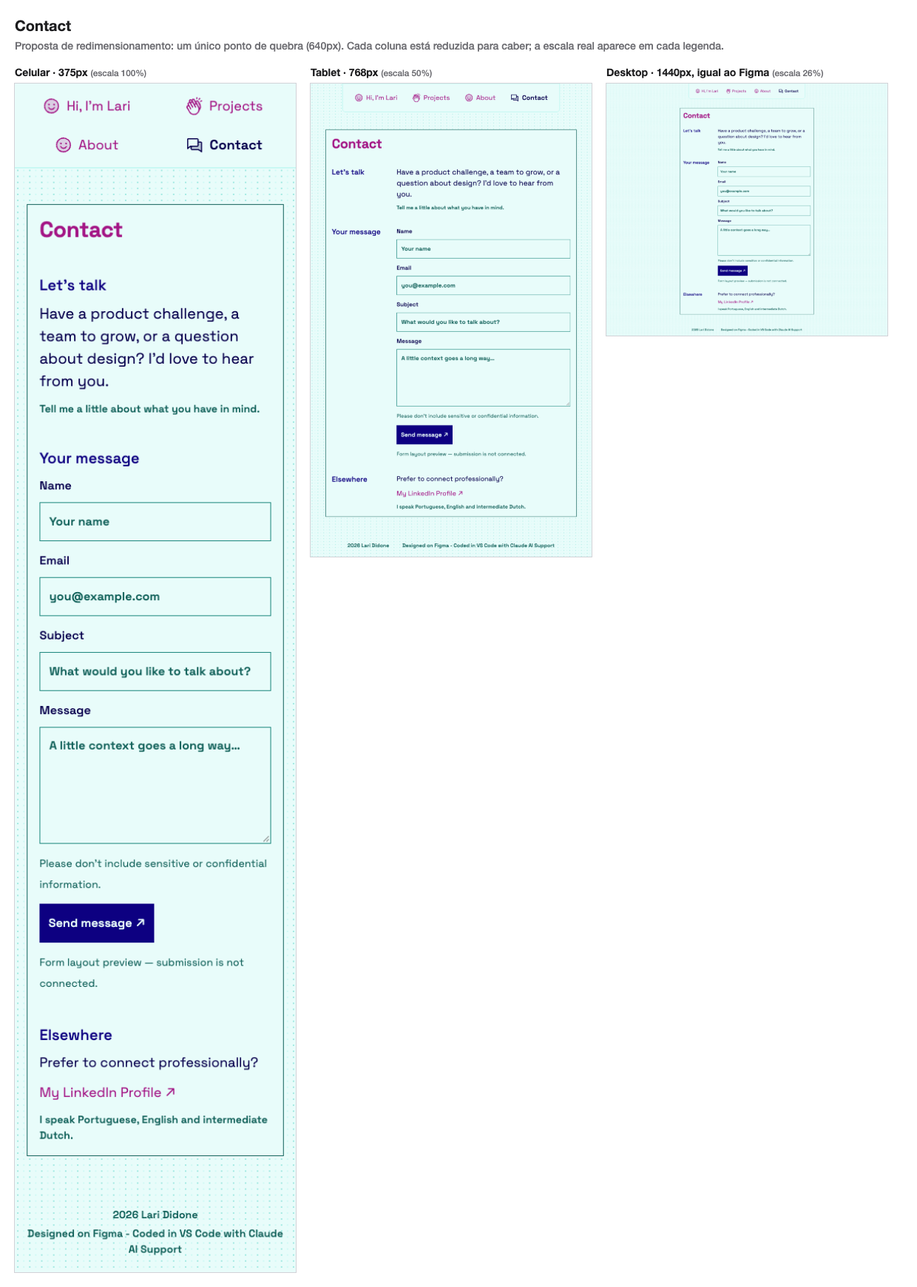
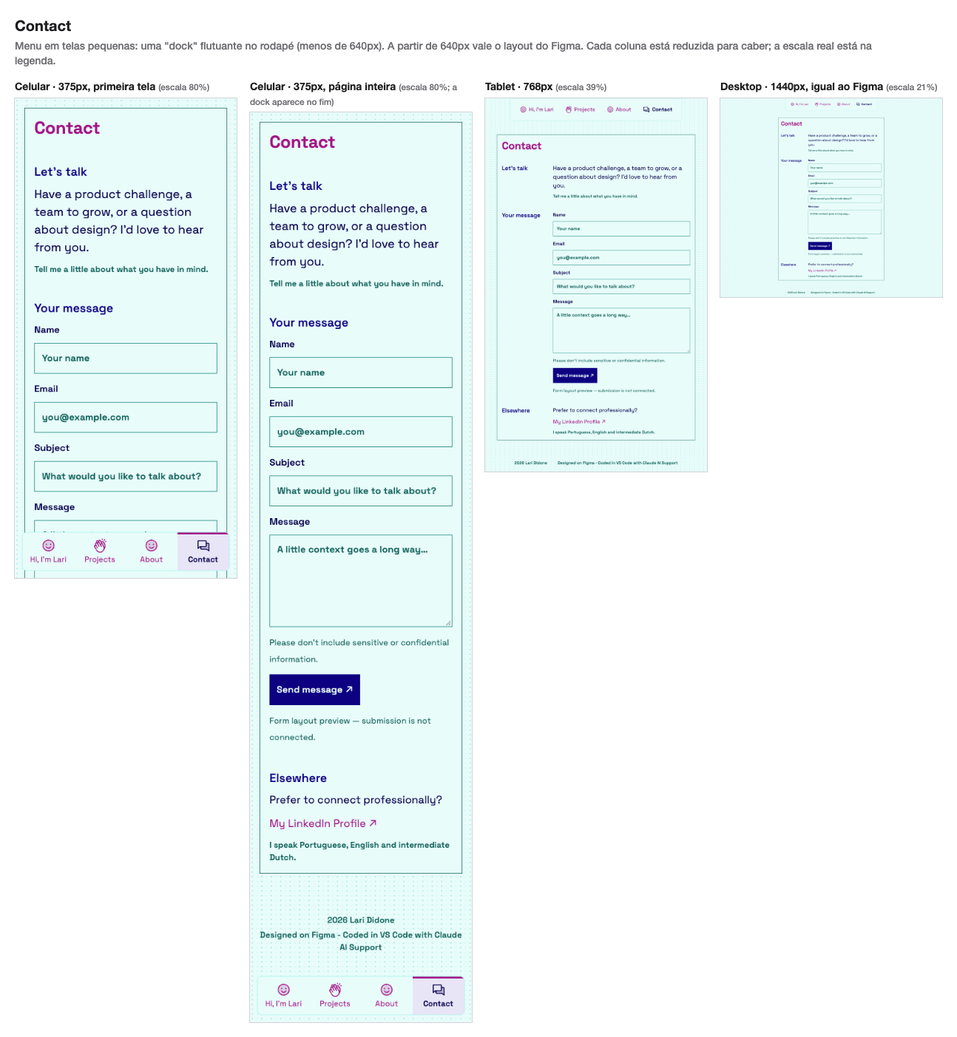
Add a floating dock menu for small screens
Replace the 2x2 menu on phones with a floating dock at the bottom of the
screen: four equal tabs with the icon above the label, the current page
marked by a lavender fill, a pink top bar, bold text and a filled icon.

- The dock only appears from 320px to 639px wide and at 480px tall or more
  (measured in em). On short, narrow or wide windows the tabs fall back to
  a strip at the top.
- Content and keyboard focus are never hidden behind it (bottom padding and
  scroll-padding-bottom); the focus ring sits inside each tab.
- js/text-size.js flags very large text (root font over 125%) so the page
  falls back to a 2x2 strip instead of a tall dock.
- docs/responsivo.md records the decision, the risks and the tests; README
  and the other docs are updated; new images in docs/imagens.

Desktop is unchanged and still matches the Figma measurements.
npm run check passes.

Changed region(s): [[0.0, 0.0, 1.0, 1.0]]

diff --git a/css/styles.css b/css/styles.css
@@ -133,12 +133,10 @@ a:hover {
   justify-content: center;
 }
 
-/* Barra de navegação (componente Nav do Figma) */
+/* Barra de navegação (componente Nav do Figma). Largura, margens e borda mudam
+   conforme o tamanho da tela: veja os blocos @media mais abaixo. */
 .nav {
-  width: 100%;
-  padding: var(--space-2);
   background: var(--color-bg-primary);
-  border-bottom: 1px solid var(--color-surface-primary);
 }
 
 .nav__list {
@@ -146,11 +144,6 @@ a:hover {
   flex-wrap: wrap;
   justify-content: center;
   gap: var(--space-2);
-}
-
-/* Celular: 2 abas por linha */
-.nav__list li {
-  flex: 1 1 calc(50% - var(--space-2));
 }
 
 /* Aba de navegação (componente NavTab do Figma) */
@@ -167,10 +160,6 @@ a:hover {
   font-weight: 400;
   line-height: 1.75rem;
   text-decoration: none;
-}
-
-.nav .tab {
-  width: 100%;
 }
 
 /* Ícone de 24×24px à esquerda do texto. Os SVGs vêm do Figma; posição e tamanho
@@ -577,10 +566,95 @@ main {
   background: var(--indigo-700); /* ≠ FIGMA: hover do botão ainda não foi desenhado */
 }
 
-/* Modo de alto contraste do Windows: sem fundo colorido, o botão precisa de uma borda */
+/* Modo de alto contraste do Windows: sem fundo colorido, o botão precisa de uma borda,
+   e a aba da página atual ganha um sublinhado (o fundo e a barra colorida somem) */
 @media (forced-colors: active) {
   .button {
     border: 1px solid ButtonText;
+  }
+
+  .nav .tab[aria-current="page"] {
+    text-decoration: underline;
+    text-underline-offset: 0.2em;
+  }
+}
+
+/* ============================================================
+   NAVEGAÇÃO EM TELAS PEQUENAS (menos de 640px)
+   PROPOSTA: ainda não existe no Figma (veja docs/responsivo.md).
+   Quatro abas iguais, com o ícone sobre o rótulo, numa faixa no topo.
+   ============================================================ */
+@media (width < 40em) {
+  .nav {
+    width: 100%;
+    border-bottom: 1px solid var(--color-surface-primary);
+  }
+
+  .nav__list {
+    gap: 0;
+  }
+
+  .nav__list li {
+    flex: 1 1 0;
+    /* com texto grande as abas passam para outra linha em vez de estourar a tela */
+    min-width: min-content;
+  }
+
+  .nav .tab {
+    flex-direction: column;
+    gap: var(--space-1);
+    width: 100%;
+    min-height: 4rem;
+    padding: var(--space-2) var(--space-1);
+    font-size: 0.8125rem; /* 13px */
+    line-height: 1.25;
+    text-align: center;
+  }
+
+  /* Página atual: fundo lavanda + barra no topo + texto pesado + ícone preenchido */
+  .nav .tab[aria-current="page"] {
+    background: var(--color-bg-secondary);
+    box-shadow: inset 0 3px 0 var(--pink-purple-500);
+  }
+
+  /* O anel de foco fica por dentro da aba, para não invadir as vizinhas */
+  .nav .tab:focus-visible {
+    outline-offset: -4px;
+  }
+
+  /* Texto muito grande (veja js/text-size.js): as abas ficam em 2×2 */
+  html[data-big-text] .nav__list li {
+    flex-basis: 45%;
+  }
+}
+
+/* "Dock" flutuante no rodapé da tela, ao alcance do polegar.
+   Só aparece se a janela for larga (320px ou mais) e alta (480px ou mais) o bastante.
+   Medido em "em": quem aumenta o tamanho da fonte no navegador, ou dá muito zoom, volta
+   para a faixa no topo, que rola junto com a página e nunca cobre o conteúdo.
+   O mesmo vale quando o texto está muito grande (html[data-big-text], veja js/text-size.js).
+   A ordem do Tab continua a do HTML (a navegação vem primeiro), mesmo ficando embaixo. */
+@media (20em <= width < 40em) and (height >= 30em) {
+  html:not([data-big-text]) .site-header {
+    position: fixed;
+    inset: auto var(--space-3) var(--space-3); /* colada embaixo, com 12px de margem */
+    z-index: 10;
+  }
+
+  html:not([data-big-text]) .nav {
+    border: 1px solid var(--color-surface-primary);
+    border-radius: 0.5rem; /* o mesmo raio da barra de desktop */
+    overflow: hidden; /* a aba da página atual acompanha os cantos arredondados */
+  }
+
+  /* Deixa espaço para o conteúdo não ficar escondido atrás da dock, e para o foco do
+     teclado nunca parar embaixo dela (WCAG 2.4.11) */
+  html:not([data-big-text]) {
+    scroll-padding-bottom: 6rem;
+  }
+
+  html:not([data-big-text]) body {
+    padding-block: var(--space-4) 6rem;
   }
 }
 

diff --git a/js/text-size.js b/js/text-size.js
@@ -1,0 +1,20 @@
+/*
+  TEXTO MUITO GRANDE
+  ------------------
+  Em telas pequenas a navegação é uma "dock" flutuante no rodapé. Se a pessoa aumenta muito o
+  tamanho do texto (por exemplo, "Tamanho do texto" no Safari do iPhone), as abas passam para
+  várias linhas e a dock cobriria boa parte da tela e o fim da página.
+
+  Este script marca a página (atributo data-big-text no <html>) quando o texto está bem acima
+  do padrão, e o CSS volta para a faixa no topo (que rola junto com a página), com as abas em
+  2×2. Sem JavaScript tudo continua funcionando; só esse caso extremo fica menos elegante.
+*/
+const TAMANHO_PADRAO_PX = 16;
+
+const marcar = () => {
+  const px = parseFloat(getComputedStyle(document.documentElement).fontSize);
+  document.documentElement.toggleAttribute("data-big-text", px > TAMANHO_PADRAO_PX * 1.25);
+};
+
+marcar();
+addEventListener("resize", marcar);

diff --git a/about.html b/about.html
@@ -17,6 +17,7 @@
     />
     <link rel="stylesheet" href="css/tokens.css" />
     <link rel="stylesheet" href="css/styles.css" />
+    <script src="js/text-size.js"></script>
   </head>
   <body>
     <a class="skip-link" href="#main">Skip to main content</a>

diff --git a/contact.html b/contact.html
@@ -17,6 +17,7 @@
     />
     <link rel="stylesheet" href="css/tokens.css" />
     <link rel="stylesheet" href="css/styles.css" />
+    <script src="js/text-size.js"></script>
   </head>
   <body>
     <a class="skip-link" href="#main">Skip to main content</a>

diff --git a/index.html b/index.html
@@ -17,6 +17,7 @@
     />
     <link rel="stylesheet" href="css/tokens.css" />
     <link rel="stylesheet" href="css/styles.css" />
+    <script src="js/text-size.js"></script>
   </head>
   <body>
     <a class="skip-link" href="#main">Skip to main content</a>

diff --git a/projects.html b/projects.html
@@ -17,6 +17,7 @@
     />
     <link rel="stylesheet" href="css/tokens.css" />
     <link rel="stylesheet" href="css/styles.css" />
+    <script src="js/text-size.js"></script>
   </head>
   <body>
     <a class="skip-link" href="#main">Skip to main content</a>

diff --git a/docs/responsivo.md b/docs/responsivo.md
@@ -1,10 +1,32 @@
-# Proposta de redimensionamento (aguardando sua aprovação)
+# Redimensionamento: como o site se adapta a telas menores
 
-O Figma só tem frames de desktop (1440px). Esta é a minha proposta de como o site se adapta a telas menores. **Já está implementada no código** para você poder ver e testar, mas nada disso existe no Figma até você aprovar (ou ajustar).
+O Figma só tem frames de desktop (1440px). Este documento descreve como o site se adapta a telas menores. **Já está implementado no código** para você poder ver e testar, mas nada disso existe no Figma até você aprovar (ou ajustar). O menu do celular já foi decidido por você; o resto aguarda sua aprovação.
+
+## Decisão: o menu do celular é uma "dock" flutuante
+
+A primeira proposta era uma grade 2×2 no topo. Você não gostou (ocupava 112px da tela e parecia uma grade comum), então mostrei três direções e **você escolheu a B, a dock**.
+
+[![Opções de menu para o celular](imagens/menu-mobile-opcoes.png)](imagens/menu-mobile-opcoes.png)
+
+**Como ela funciona:** uma barra flutuante, encostada no rodapé da tela com 12px de margem e os mesmos cantos arredondados da barra de desktop, com as 4 abas iguais (ícone sobre o rótulo). A página atual tem fundo lavanda, uma barra rosa no topo, texto pesado e ícone preenchido, então não depende só de cor. Fica ao alcance do polegar e mostra os 4 destinos o tempo todo.
+
+[![A dock em cada página, com foco de teclado e em 320px](imagens/menu-mobile-dock.png)](imagens/menu-mobile-dock.png)
+
+**Uma barra fixa embaixo traz riscos de acessibilidade. Cada um foi tratado e testado:**
+
+| Risco                                               | O que foi feito                                                                                                                                                                                                                    | Como foi conferido                                                                                               |
+| --------------------------------------------------- | ---------------------------------------------------------------------------------------------------------------------------------------------------------------------------------------------------------------------------------- | ---------------------------------------------------------------------------------------------------------------- |
+| Cobrir o fim da página                              | Espaço extra embaixo do conteúdo (`padding` de 6rem)                                                                                                                                                                               | Com a página rolada até o fim, o rodapé termina acima da dock em 320, 375 e 390px de largura                     |
+| O foco do teclado parar atrás da dock (WCAG 2.4.11) | `scroll-padding-bottom`: o navegador rola o elemento focado para uma área livre                                                                                                                                                    | 45 paradas do Tab (15 em cada uma de 3 páginas): nenhuma ficou escondida                                         |
+| Janela baixa ou muito zoom (WCAG 1.4.10)            | A dock só existe com 320px de largura ou mais **e** 480px de altura ou mais (medido em `em`). Abaixo disso vira uma **faixa no topo**, que rola com a página e nunca cobre nada                                                    | Testado em 375×400, 310×800 e 800×800                                                                            |
+| Texto aumentado                                     | Com a fonte do navegador maior, os limites em `em` sobem e a faixa volta sozinha. Para controles de texto que o CSS não enxerga (como o do Safari no iPhone), `js/text-size.js` marca a página e a faixa volta, com as abas em 2×2 | Simulado a 150% e 200%. Sem essa proteção, a 200% a dock chegava a cobrir 35% da tela e escondia o fim da página |
+| Ordem do Tab × ordem visual                         | A navegação continua **primeiro no HTML**, mesmo aparecendo embaixo. Quem usa teclado ou leitor de tela a encontra logo no começo, e existe o link "Pular para o conteúdo". É um compromisso conhecido dessa escolha               | Documentado aqui                                                                                                 |
+| Modo de alto contraste (Windows)                    | A página atual ganha sublinhado, porque o fundo e a barra colorida somem nesse modo                                                                                                                                                | Regra `forced-colors` em `css/styles.css`                                                                        |
+| Alvos de toque pequenos                             | Cada aba tem cerca de 85×64px                                                                                                                                                                                                      | `npm run check` (axe) sem problemas                                                                              |
 
 ## Princípios
 
-1. **Um único ponto de quebra: 640px.** A partir dele vale exatamente o layout do Figma; abaixo dele o conteúdo empilha. Os cartões e a navegação ainda "quebram" sozinhos quando faltar espaço.
+1. **Um único ponto de quebra: 640px.** A partir dele vale exatamente o layout do Figma; abaixo dele o conteúdo empilha. Os cartões ainda "quebram" sozinhos quando faltar espaço. A dock tem condições próprias, descritas acima.
 2. **Medido em `em`, não em `px`.** `40em` equivale a 640px, mas se a pessoa aumentar a fonte do navegador o ponto de quebra sobe junto, e ela ganha o layout empilhado mais cedo. Isso ajuda quem precisa de texto grande.
 3. **Nenhuma largura fixa.** Painel, janela, campos e cartões usam "no máximo X, senão a largura disponível".
 4. **O texto grande encolhe com a tela** (título e subtítulo da Home, H1 das páginas) e para no tamanho do Figma a partir de ~720px. O texto pequeno (14px) não muda.
@@ -12,50 +34,60 @@ O Figma só tem frames de desktop (1440px). Esta é a minha proposta de como o s
 
 ## Elemento por elemento
 
-| Elemento                              | 640px ou mais (= Figma)                                         | Menos de 640px (proposta)                                               | Por quê                                                                   |
-| ------------------------------------- | --------------------------------------------------------------- | ----------------------------------------------------------------------- | ------------------------------------------------------------------------- |
-| **Navegação**                         | 1 linha, centralizada, com borda e cantos de baixo arredondados | Barra de ponta a ponta, abas em **2×2**, cada uma com 44px de altura    | 4 abas com ícone e texto (603px) não cabem em 320px. Mantém ícone e texto |
-| **Janela da Home**                    | 700px, centralizada                                             | Largura total com 16px de margem, centralizada na altura da tela        | Mantém o "pop-up" retrô sem cortar texto                                  |
-| **Título da Home**                    | 48px                                                            | 32px (320px de largura) → 34px (375px) → 48px (720px ou mais)           | Escala suave, sem saltos                                                  |
-| **Subtítulo da Home**                 | 36px                                                            | 24px (320px) → 26px (375px) → 36px (720px ou mais)                      | Idem                                                                      |
-| **H1 das páginas**                    | 36px                                                            | 28px (320px) → 29px (375px) → 36px (770px ou mais)                      | Idem                                                                      |
-| **Painel** (About, Projects, Contact) | 686px, centralizado                                             | Largura total com 16px de margem e o mesmo padding interno              | Aproveita a largura                                                       |
-| **Linhas rótulo + conteúdo**          | 2 colunas: rótulo de 145px + conteúdo                           | **Empilha**: rótulo em cima, conteúdo embaixo                           | Em 375px, 145px de rótulo deixaria só ~130px para o conteúdo              |
-| **Cartões de projeto**                | 2 colunas de 314px                                              | **1 coluna** de largura total; a partir de ~620px de largura, 2 colunas | A ilustração mantém a proporção 280:164 em qualquer largura               |
-| **Formulário**                        | Campos de 475px à direita do rótulo                             | Campos de largura total, empilhados sob o rótulo                        | Campo largo é mais fácil de tocar e de ler                                |
-| **Rodapé**                            | 2 textos nas pontas, numa faixa de 566px                        | Empilhado e centralizado; o texto longo pode quebrar em 2 linhas        | Não cabe em uma linha em 375px                                            |
-| **Fundo pontilhado**                  | tile de 16×8px                                                  | igual                                                                   | Não depende da largura                                                    |
+| Elemento                              | 640px ou mais (= Figma)                                         | Menos de 640px                                                                                                                                 | Por quê                                                                   |
+| ------------------------------------- | --------------------------------------------------------------- | ---------------------------------------------------------------------------------------------------------------------------------------------- | ------------------------------------------------------------------------- |
+| **Navegação**                         | 1 linha, centralizada, com borda e cantos de baixo arredondados | **Dock flutuante** no rodapé da tela (4 abas iguais, ícone sobre o rótulo). Em janela baixa, estreita ou com texto muito grande: faixa no topo | Ao alcance do polegar e sempre visível; as proteções estão na seção acima |
+| **Janela da Home**                    | 700px, centralizada                                             | Largura total com 16px de margem, centralizada na altura da tela                                                                               | Mantém o "pop-up" retrô sem cortar texto                                  |
+| **Título da Home**                    | 48px                                                            | 32px (320px de largura) → 34px (375px) → 48px (720px ou mais)                                                                                  | Escala suave, sem saltos                                                  |
+| **Subtítulo da Home**                 | 36px                                                            | 24px (320px) → 26px (375px) → 36px (720px ou mais)                                                                                             | Idem                                                                      |
+| **H1 das páginas**                    | 36px                                                            | 28px (320px) → 29px (375px) → 36px (770px ou mais)                                                                                             | Idem                                                                      |
+| **Painel** (About, Projects, Contact) | 686px, centralizado                                             | Largura total com 16px de margem e o mesmo padding interno                                                                                     | Aproveita a largura                                                       |
+| **Linhas rótulo + conteúdo**          | 2 colunas: rótulo de 145px + conteúdo                           | **Empilha**: rótulo em cima, conteúdo embaixo                                                                                                  | Em 375px, 145px de rótulo deixaria só ~130px para o conteúdo              |
+| **Cartões de projeto**                | 2 colunas de 314px                                              | **1 coluna** de largura total; a partir de ~620px de largura, 2 colunas                                                                        | A ilustração mantém a proporção 280:164 em qualquer largura               |
+| **Formulário**                        | Campos de 475px à direita do rótulo                             | Campos de largura total, empilhados sob o rótulo                                                                                               | Campo largo é mais fácil de tocar e de ler                                |
+| **Rodapé**                            | 2 textos nas pontas, numa faixa de 566px                        | Empilhado e centralizado; o texto longo pode quebrar em 2 linhas                                                                               | Não cabe em uma linha em 375px                                            |
+| **Fundo pontilhado**                  | tile de 16×8px                                                  | igual                                                                                                                                          | Não depende da largura                                                    |
 
 ## Veja como ficou (celular · tablet · desktop)
+
+Cada folha mostra a primeira tela do celular, a página inteira (com a dock no fim), o tablet e o desktop.
 
 [![Home](imagens/responsivo-home.png)](imagens/responsivo-home.png)
 [![About](imagens/responsivo-about.png)](imagens/responsivo-about.png)
 [![Projects](imagens/responsivo-projects.png)](imagens/responsivo-projects.png)
 [![Contact](imagens/responsivo-contact.png)](imagens/responsivo-contact.png)
 
+**Para ver ao vivo:** abra o site no Live Server, depois no Chrome use `⌥⌘I` (DevTools) e `⇧⌘M` (modo celular) e escolha, por exemplo, "iPhone SE" ou "iPhone 14".
+
 ## O que já foi testado
 
 Em Chrome, nas 4 páginas:
 
 - **Larguras de 320, 375, 640, 768, 1024 e 1440px:** nenhuma rolagem horizontal. (320px é o que a WCAG usa para o zoom de 400%.)
-- **Texto a 200%** (tamanho da fonte do navegador) numa janela de 1280px: nada estoura.
+- **A dock em 320×568, 375×812 e 390×844:** fica fixa, a 12px da borda de baixo, com 66px de altura, e o rodapé nunca fica escondido atrás dela.
+- **Quando a dock não deve aparecer:** em janela baixa (375×400), estreita (310px) e larga (800px), a navegação volta para o topo.
+- **Texto grande:** a 150% e 200% o menu vira a faixa 2×2 no topo, sem cobrir conteúdo. A 200% numa janela de 1280px, nada estoura.
 - **Espaçamento de texto aumentado** (altura de linha 1,5, espaço entre letras e palavras maiores, regra WCAG 1.4.12): nada é cortado.
-- **Teclado:** ordem do Tab lógica, anel de foco visível em todos os elementos, link "Pular para o conteúdo" funcionando.
+- **Teclado:** ordem do Tab lógica, anel de foco visível em todos os elementos (dentro da dock, o anel fica por dentro da aba), link "Pular para o conteúdo" funcionando, nenhum foco escondido pela dock.
+- **Desktop:** medido de novo depois da dock. Continua idêntico ao Figma (janela 700×217, cartões, campos e painéis).
 - **`npm run check`** (axe em 375px e 1280px): nenhum problema.
 
-Ainda falta, e só você ou um aparelho real faz: **testar num celular de verdade** e com **VoiceOver**.
+Ainda falta, e só você ou um aparelho real faz: **testar num celular de verdade** (principalmente a dock com a barra do Safari embaixo) e com **VoiceOver**.
 
-## Alternativas que considerei e descartei
+## Alternativas consideradas
 
-| Alternativa                             | Por que não                                                                                                               |
-| --------------------------------------- | ------------------------------------------------------------------------------------------------------------------------- |
-| Menu "hambúrguer"                       | Precisa de JavaScript, esconde os 4 destinos atrás de um toque extra. Com só 4 itens, 2×2 é mais simples e mais acessível |
-| Abas numa linha com rolagem horizontal  | Esconde itens e a rolagem horizontal dificulta o uso (e desrespeita o reflow da WCAG 1.4.10)                              |
-| Barra de abas fixa no rodapé do celular | Ocupa tela, briga com as barras do navegador e foge do desenho (navegação no topo)                                        |
+| Alternativa                                                | Por que não                                                                                                              |
+| ---------------------------------------------------------- | ------------------------------------------------------------------------------------------------------------------------ |
+| Grade **2×2** no topo (primeira proposta)                  | Ocupava 112px da tela e parecia uma grade comum. Você não gostou. Hoje é só o formato de reserva para texto muito grande |
+| **Faixa compacta** no topo (opção A)                       | Boa, simples e sem JavaScript, mas só um pouco melhor que o 2×2. Virou a versão de reserva da dock                       |
+| **Menu retrô** (opção C): botão "Menu" que abre uma janela | Mais "a sua cara", mas esconde os 4 destinos atrás de um toque e precisa de JavaScript                                   |
+| Menu "hambúrguer"                                          | Precisa de JavaScript e esconde os 4 destinos atrás de um toque extra                                                    |
+| Abas numa linha com rolagem horizontal                     | Esconde itens e a rolagem horizontal dificulta o uso (e desrespeita o reflow da WCAG 1.4.10)                             |
+| **Dock flutuante** (opção B)                               | **Escolhida por você.** Sempre visível e ao alcance do polegar; os riscos estão tratados na seção acima                  |
 
 ## Para você decidir
 
-- [ ] Navegação em **2×2** no celular
+- [x] Menu do celular: **dock flutuante** (decidido em 08/10)
 - [ ] Título e subtítulo da Home **fluidos** (32 → 48px)
 - [ ] Cartões em **1 coluna** no celular (2 a partir de ~620px)
 - [ ] Rótulos **empilhados** acima do conteúdo no celular

diff --git a/docs/revisao-do-design.md b/docs/revisao-do-design.md
@@ -96,14 +96,14 @@ A cor `#d946b0` é usada em: abas inativas da navegação (18px), "View case stu
 
 ## 4. Ajustes no Figma, em ordem de importância
 
-| #   | Ajuste                     | No código     | No Figma | Detalhe                                                                                                                                                                 |
-| --- | -------------------------- | ------------- | -------- | ----------------------------------------------------------------------------------------------------------------------------------------------------------------------- |
-| 1   | **Cor dos links**          | ✅            | ⏳       | Trocar `color/text/link` para `#a31585` (`pink-purple/500`): 6,57:1 e 5,65:1. Dá para manter `#d946b0` em elementos decorativos                                         |
-| 2   | **Borda dos campos**       | ✅            | ⏳       | Criar `color/border/input` = `mint/600` `#17847a` (4,27:1) e aplicar nos 4 campos. _(WCAG 1.4.11)_                                                                      |
-| 3   | **Estado de foco**         | ✅            | ⏳       | Contorno de 2px em `indigo/500`, com 2px de afastamento, em abas, links, campos e botão. _(WCAG 2.4.7)_                                                                 |
-| 4   | **Versão mobile e tablet** | ✅ (proposta) | ⏳       | Só existe 1440px. A proposta já está no código e aguarda sua aprovação: [responsivo.md](responsivo.md). _(WCAG 1.4.10)_                                                 |
-| 5   | **Tamanho do texto**       | não           | ⏳       | O corpo é 14px SemiBold e há rótulos de 12px. O código **manteve** o Figma (em `rem`). Subir o corpo para 16px é recomendável, não é exigência da WCAG: **decisão sua** |
-| 6   | **Estados que faltam**     | em parte      | ⏳       | No código: hover do botão (fundo `indigo/700`) e sublinhado nos links de texto. Ainda sem desenho: pressionado, desabilitado, erro e sucesso do formulário              |
+| #   | Ajuste                     | No código     | No Figma | Detalhe                                                                                                                                                                                         |
+| --- | -------------------------- | ------------- | -------- | ----------------------------------------------------------------------------------------------------------------------------------------------------------------------------------------------- |
+| 1   | **Cor dos links**          | ✅            | ⏳       | Trocar `color/text/link` para `#a31585` (`pink-purple/500`): 6,57:1 e 5,65:1. Dá para manter `#d946b0` em elementos decorativos                                                                 |
+| 2   | **Borda dos campos**       | ✅            | ⏳       | Criar `color/border/input` = `mint/600` `#17847a` (4,27:1) e aplicar nos 4 campos. _(WCAG 1.4.11)_                                                                                              |
+| 3   | **Estado de foco**         | ✅            | ⏳       | Contorno de 2px em `indigo/500`, com 2px de afastamento, em abas, links, campos e botão. _(WCAG 2.4.7)_                                                                                         |
+| 4   | **Versão mobile e tablet** | ✅ (proposta) | ⏳       | Só existe 1440px. A proposta já está no código: o menu do celular é uma **dock flutuante** (decidido por você) e o resto aguarda sua aprovação: [responsivo.md](responsivo.md). _(WCAG 1.4.10)_ |
+| 5   | **Tamanho do texto**       | não           | ⏳       | O corpo é 14px SemiBold e há rótulos de 12px. O código **manteve** o Figma (em `rem`). Subir o corpo para 16px é recomendável, não é exigência da WCAG: **decisão sua**                         |
+| 6   | **Estados que faltam**     | em parte      | ⏳       | No código: hover do botão (fundo `indigo/700`) e sublinhado nos links de texto. Ainda sem desenho: pressionado, desabilitado, erro e sucesso do formulário                                      |
 
 ## 5. Decisões
 
@@ -117,7 +117,8 @@ A cor `#d946b0` é usada em: abas inativas da navegação (18px), "View case stu
 | Texto final da Home                      | ⏳ Usei o da página ("Hello, I’m Lari. I lead designers through change…"), não o da variante "Welcome, I’m Lari…". Me avise se for o outro             |
 | Cases                                    | ⏳ Os 4 cards são exemplos ("Sample project cards — replace these"). Quais projetos reais entram, e cada um terá uma página própria?                   |
 | Tamanho do texto do corpo (14px × 16px)  | ⏳ Veja o item 5 da seção 4                                                                                                                            |
-| Redimensionamento (celular e tablet)     | ⏳ Proposta pronta, aguardando sua aprovação: [responsivo.md](responsivo.md)                                                                           |
+| Menu do celular                          | ✅ **Dock flutuante** no rodapé da tela (opção B, decidido em 08/10), com faixa no topo como reserva: [responsivo.md](responsivo.md)                   |
+| Redimensionamento (resto)                | ⏳ Proposta pronta, aguardando sua aprovação: [responsivo.md](responsivo.md)                                                                           |
 
 ## 6. Pequenas inconsistências encontradas
 

diff --git a/README.md b/README.md
@@ -39,8 +39,8 @@ Marque aqui conforme avançar.
 - [x] **0. Preparar o computador** — feito.
 - [ ] **1. Fechar o design no Figma** — **em andamento.** ([arquivo UI-Design](https://www.figma.com/design/kTQyYilEA2rApHxS9cB0Da/UI-Design); [revisão de acessibilidade do design](docs/revisao-do-design.md).) O Figma ainda precisa das telas de celular, do estado de foco, do hover de links e botão, e dos ajustes de cor listados em [docs/design-vs-codigo.md](docs/design-vs-codigo.md). Corrigir contraste no Figma custa minutos; corrigir depois de programado custa horas.
 - [x] **2. Escrever o HTML** — feito: as 4 páginas (Home, About, Projects, Contact), com títulos, listas e landmarks.
-- [x] **3. Estilizar com CSS** — feito: tokens em `css/tokens.css` e layout em `css/styles.css`. Falta aprovar o comportamento em telas pequenas ([docs/responsivo.md](docs/responsivo.md)).
-- [x] **4. JavaScript só se for preciso** — feito: só um aviso no formulário de contato (`js/contact-form.js`).
+- [x] **3. Estilizar com CSS** — feito: tokens em `css/tokens.css` e layout em `css/styles.css`. O menu do celular é uma dock flutuante no rodapé (escolha sua); falta aprovar o resto do comportamento em telas pequenas ([docs/responsivo.md](docs/responsivo.md)).
+- [x] **4. JavaScript só se for preciso** — feito, com dois scripts pequenos: o aviso do formulário de contato (`js/contact-form.js`) e a detecção de texto muito grande, que devolve o menu do celular para o topo (`js/text-size.js`). O site funciona sem eles.
 - [ ] **5. Testar** — os testes automáticos passam (HTML, acessibilidade, teclado, larguras de 320 a 1440px, texto a 200%). **Falta** o teste manual em um celular de verdade e com o VoiceOver (seção 4).
 - [x] **6. Salvar versões** — em dia: tudo está commitado na `main`.
 - [ ] **7. Publicar** (seção 7).
@@ -120,7 +120,7 @@ Cobre: estrutura do HTML, contraste do estado normal, nomes e textos alternativo
 
 **Sobre o aviso "Para revisar manualmente" no rodapé:** é esperado. O texto do rodapé fica sobre o fundo pontilhado e o axe não consegue calcular contraste sobre imagem de fundo. Já conferi à mão: no pior ponto (o pontinho teal mais escuro) o contraste é de **5,47:1**, acima do mínimo de 4,5:1. Se aparecer um aviso **novo**, vale olhar.
 
-**Já testado neste projeto:** ordem do Tab e anel de foco em todos os elementos, link "Pular para o conteúdo", larguras de 320 a 1440px sem rolagem horizontal, texto a 200%, espaçamento de texto aumentado. Detalhes em [docs/responsivo.md](docs/responsivo.md).
+**Já testado neste projeto:** ordem do Tab e anel de foco em todos os elementos, link "Pular para o conteúdo", larguras de 320 a 1440px sem rolagem horizontal, texto a 200%, espaçamento de texto aumentado, e a dock do celular (nunca esconde o foco do teclado nem o fim da página). Detalhes em [docs/responsivo.md](docs/responsivo.md).
 
 ## 5. Comandos
 
@@ -183,7 +183,9 @@ larididone/
 ├── css/
 │   ├── tokens.css           ← cores, tamanhos e espaços (espelham as variáveis do Figma)
 │   └── styles.css           ← layout, componentes e comportamento em telas pequenas
-├── js/contact-form.js       ← aviso do formulário (ele ainda não envia nada)
+├── js/
+│   ├── contact-form.js      ← aviso do formulário (ele ainda não envia nada)
+│   └── text-size.js         ← detecta texto muito grande e devolve o menu do celular para o topo
 ├── assets/
 │   ├── fonts/               ← Space Grotesk, hospedada no site (licença OFL)
 │   ├── icons/               ← ícones exportados do Figma

diff --git a/docs/design-vs-codigo.md b/docs/design-vs-codigo.md
@@ -72,7 +72,7 @@ Em todos estes casos o Figma tinha duas versões ou um detalhe que parece aciden
 
 ## 5. O que o Figma ainda não tem (e eu improvisei)
 
-- **Mobile e tablet:** proposta completa em [responsivo.md](responsivo.md).
+- **Mobile e tablet:** proposta completa em [responsivo.md](responsivo.md). O **menu do celular** é uma dock flutuante no rodapé da tela (escolha sua, 08/10), com uma faixa no topo como reserva para janelas baixas e texto muito grande. Existe um pequeno script para isso (`js/text-size.js`).
 - **Estados:** foco, hover de botão e link, erro e sucesso do formulário.
 - **Mensagem ao enviar o formulário:** "This form isn’t connected yet, so nothing was sent."
 - **Título e descrição** de cada página (`<title>`, `<meta description>`), escritos a partir dos textos do Figma.
